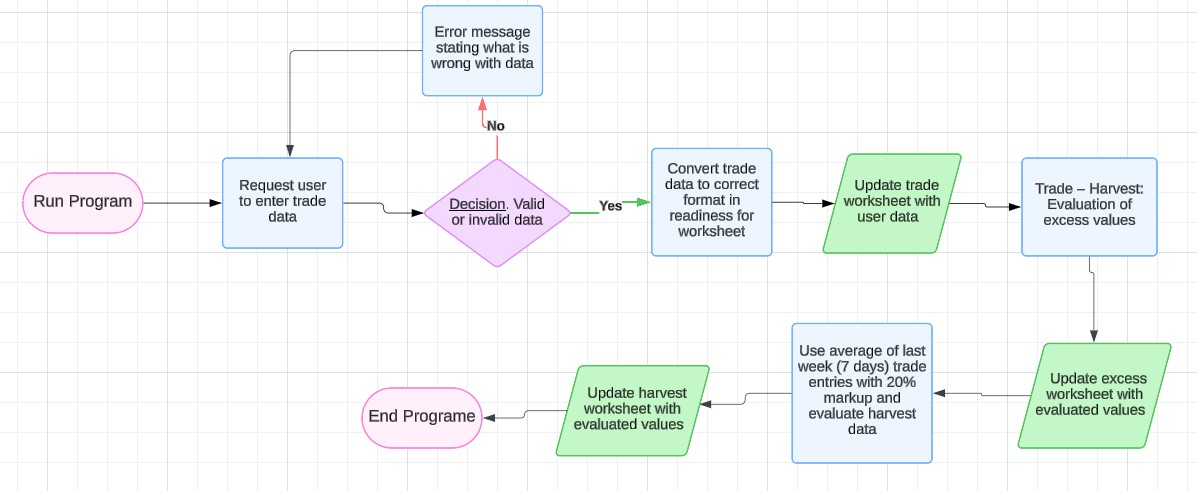
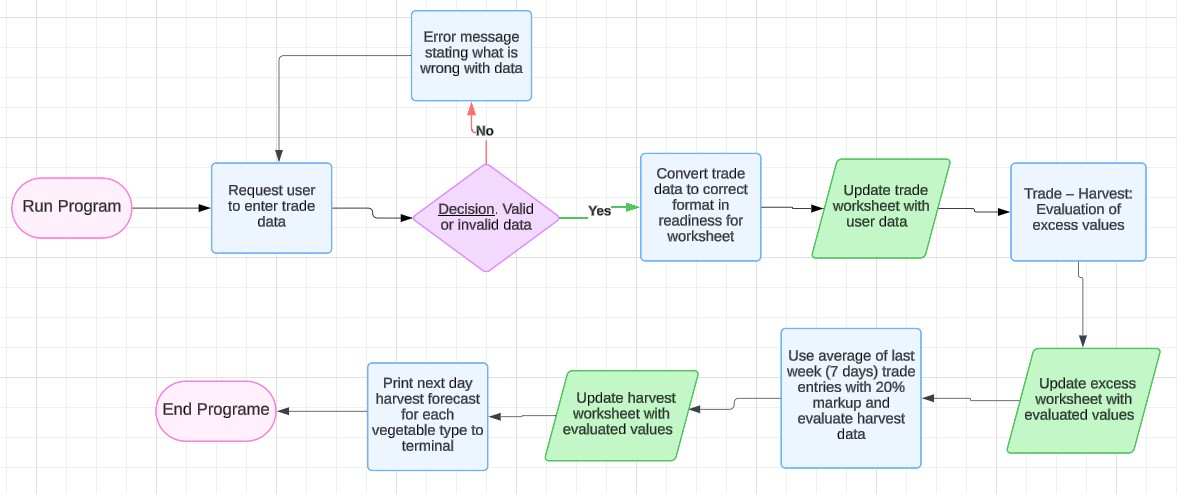
Update deployment steps

diff --git a/README.md b/README.md
@@ -2,7 +2,7 @@
 # Vegetable Farm
 ## Introduction
 #### Project Description
-  Vegetable Farm is a statistical collection project to enable vegetable farmers collect details of daily sales of 13 different vegetables being cultivated on a farm (cabbage, carrot, mushroom, broccoli, cauliflower, avocado, asparagus, aubergine, tomato, cucumber, spinach, pasnip and onion) types. To understand and forecast daily vegetable harvest with reference to daily trade and excess. Excess references amount of each vegetable type sold out with more required to be harvested or more vegetable harvested than what was sold. This will enable the farmer provide fresh vegetable to customers and improved vegetable shelf life. 
+  Vegetable Farm is a statistical collection project to enable vegetable farmers collect details of daily sales of thirteen different vegetables types being cultivated on a farm (cabbage, carrot, mushroom, broccoli, cauliflower, avocado, asparagus, aubergine, tomato, cucumber, spinach, pasnip and onion). To understand and forecast daily vegetable harvest with reference to daily trade and excess. Excess references amount of each vegetable type sold out with more required to be harvested or more vegetable harvested than what was sold hence wasted as vegetables are highly perishable produce. This will enable the farmer provide fresh vegetable to customers and improved vegetable shelf life. 
 
   [Here is a live version of my project, Vegetable Farm](https://vegetable-farm-d2f6bd1576d7.herokuapp.com/)
 
@@ -33,19 +33,26 @@ Lucid Chart to demonstrate development flow
 ![lucid chart](./assets/readme-images/lucidchart.jpg)
 ## Features
 ### Existing Features
-* #### Error handling:
+#### Error handling:
 
-Input must be integers
+   * Input must be integers
 
-Input must be 13 values separated with commas
+   * Input must be 13 values separated with commas
 
-* Trade worksheet is updated when valid record is entered
+* Trade worksheet updated when valid record is entered
 
-* Excess is calculated and worksheet updated
+* Excess calculated and worksheet updated
 
-* Harvest and forecast is calculated and worksheet updated
+* Harvest forecast calculated and worksheet updated
+
+* Next day harvest forecast printed to terminal
 
 ### Future Features
+
+* Convert vegetable to be weighed in tonnes  
+
+* Forecast harvest numbers for a longer period
+
 ## Validation Testing
 Manually tested this project by passing the code through a [PEP8 Python Linter](https://pep8ci.herokuapp.com/) and confirmed there are no Warning or Error.
 
@@ -77,6 +84,10 @@ It was fixed by using range (1, 14)
 There are no unresolved bug
 ## Deployment
 ### Deployment Steps
+
+* To enable Heroku build the project, create dependency list on requirement.txt file in workspace using pip3 freeze > requirements.txt command
+
+   ![requirements](./assets/readme-images/requirements.jpg)
 
 * Sign into Heroku and create a new app.
 
